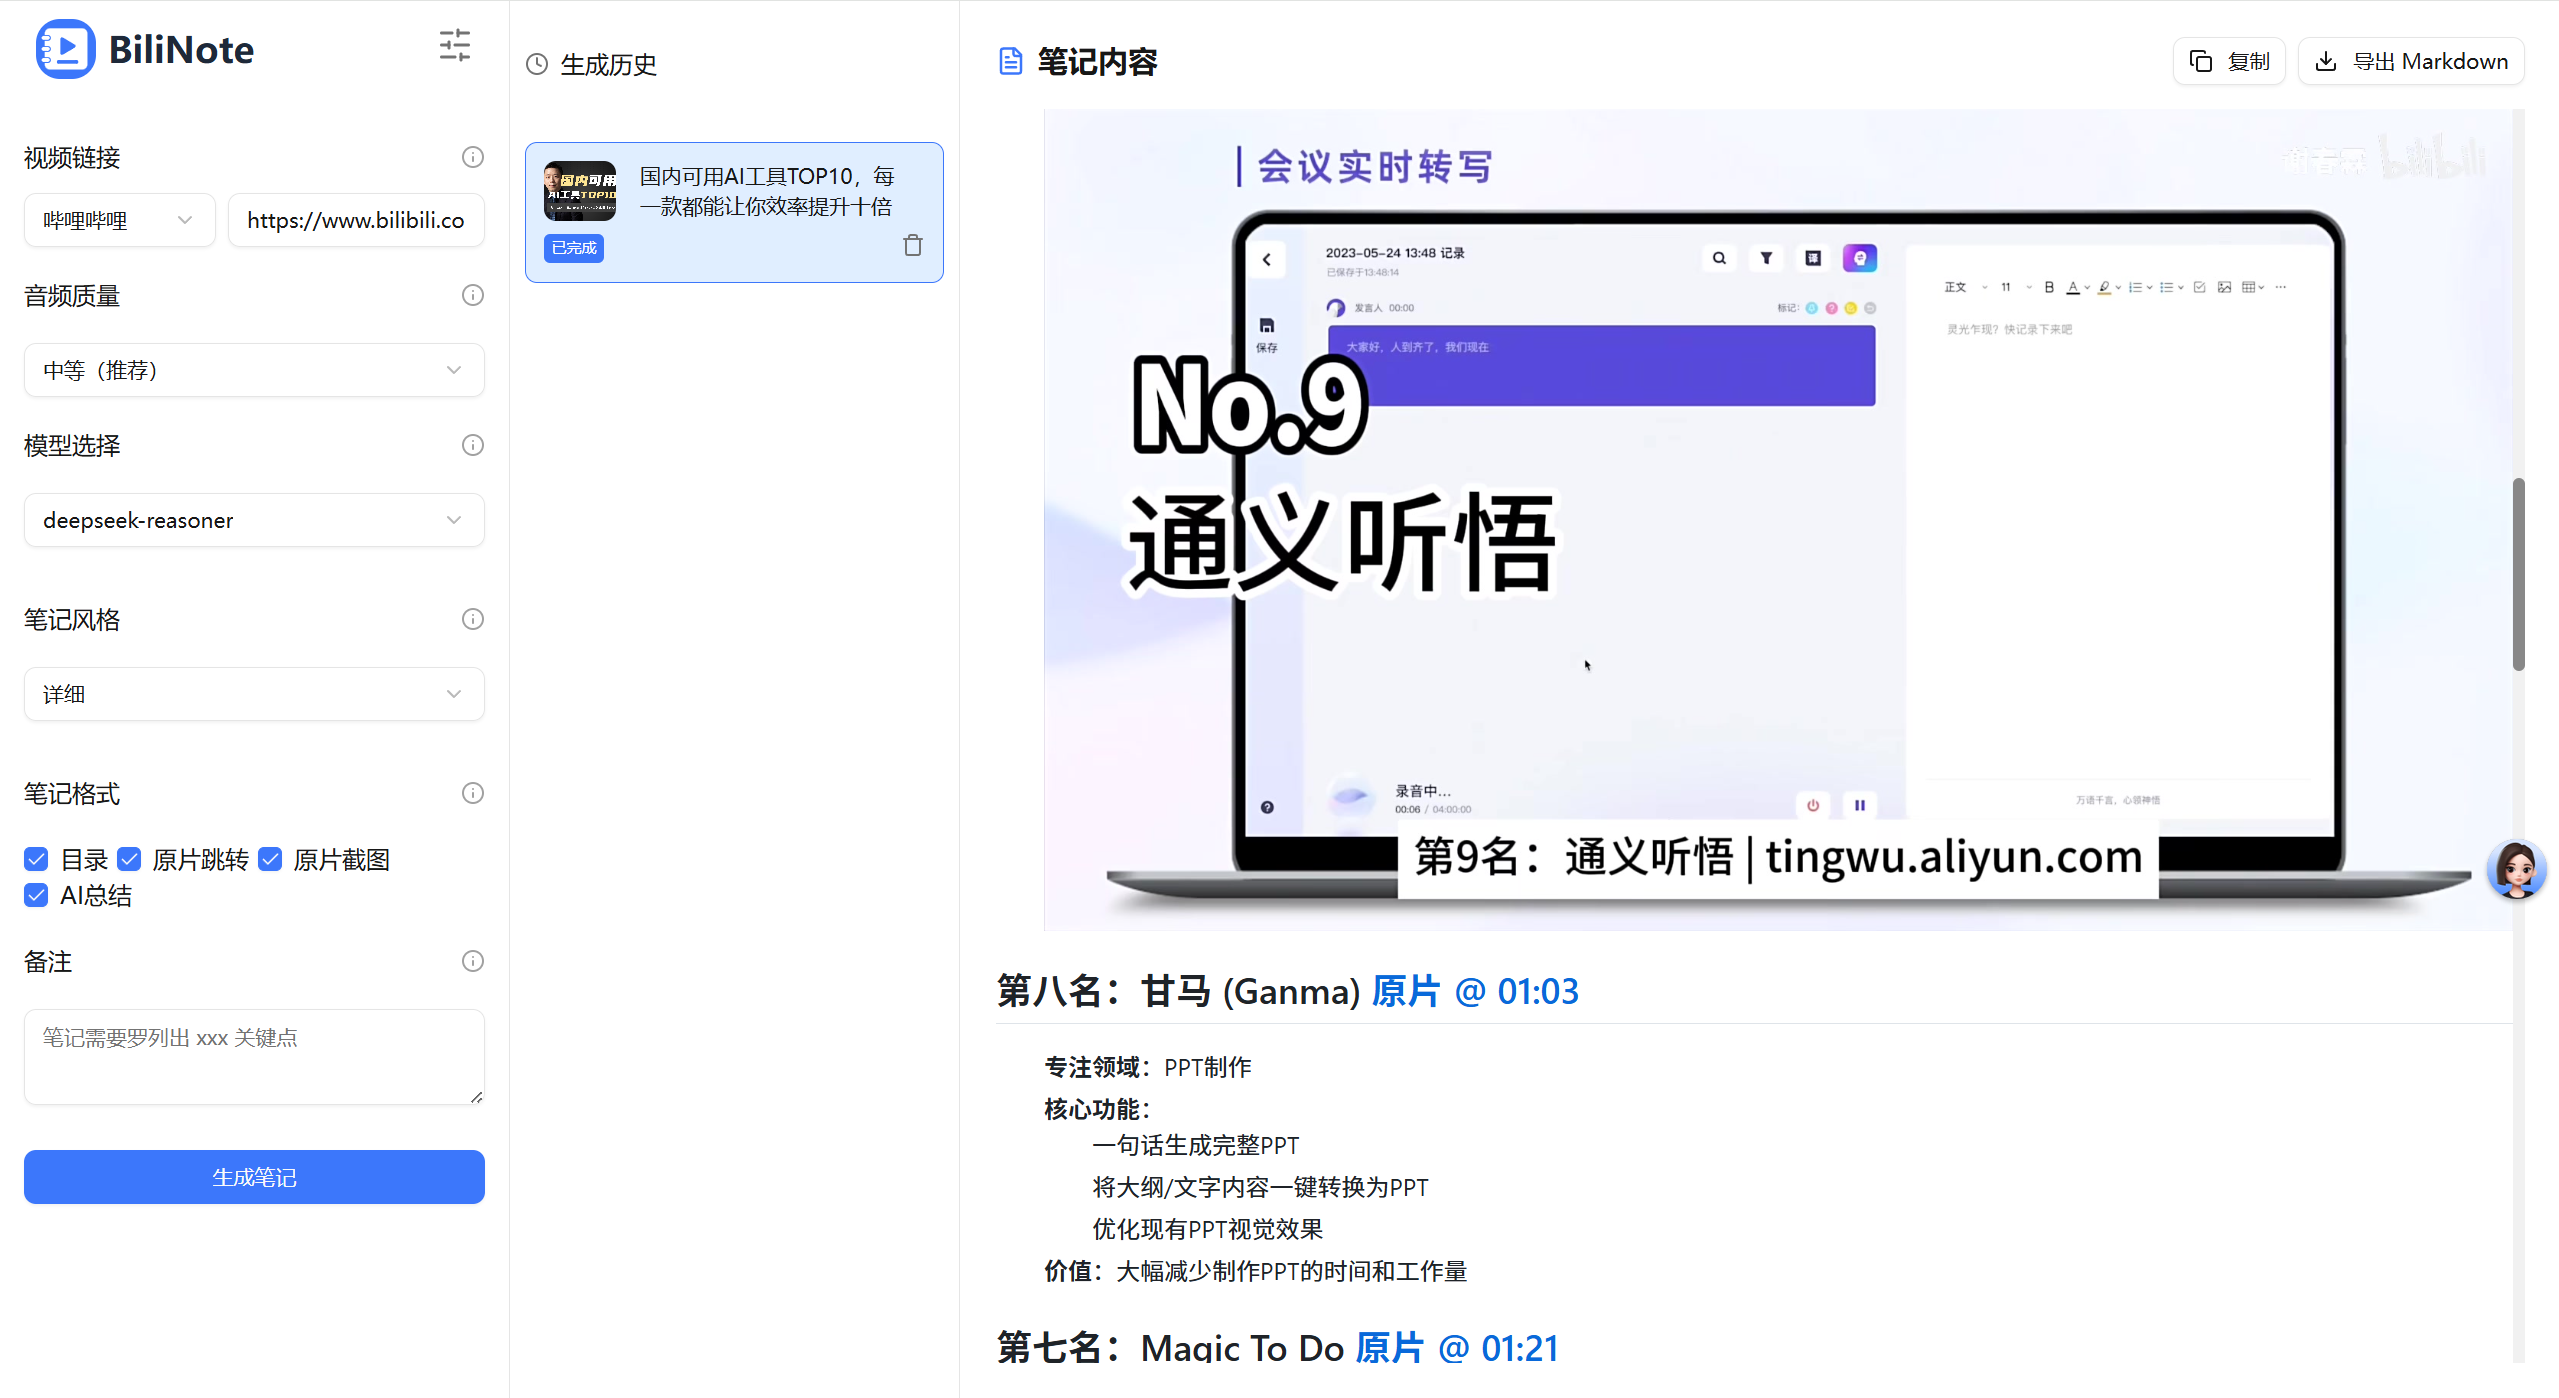
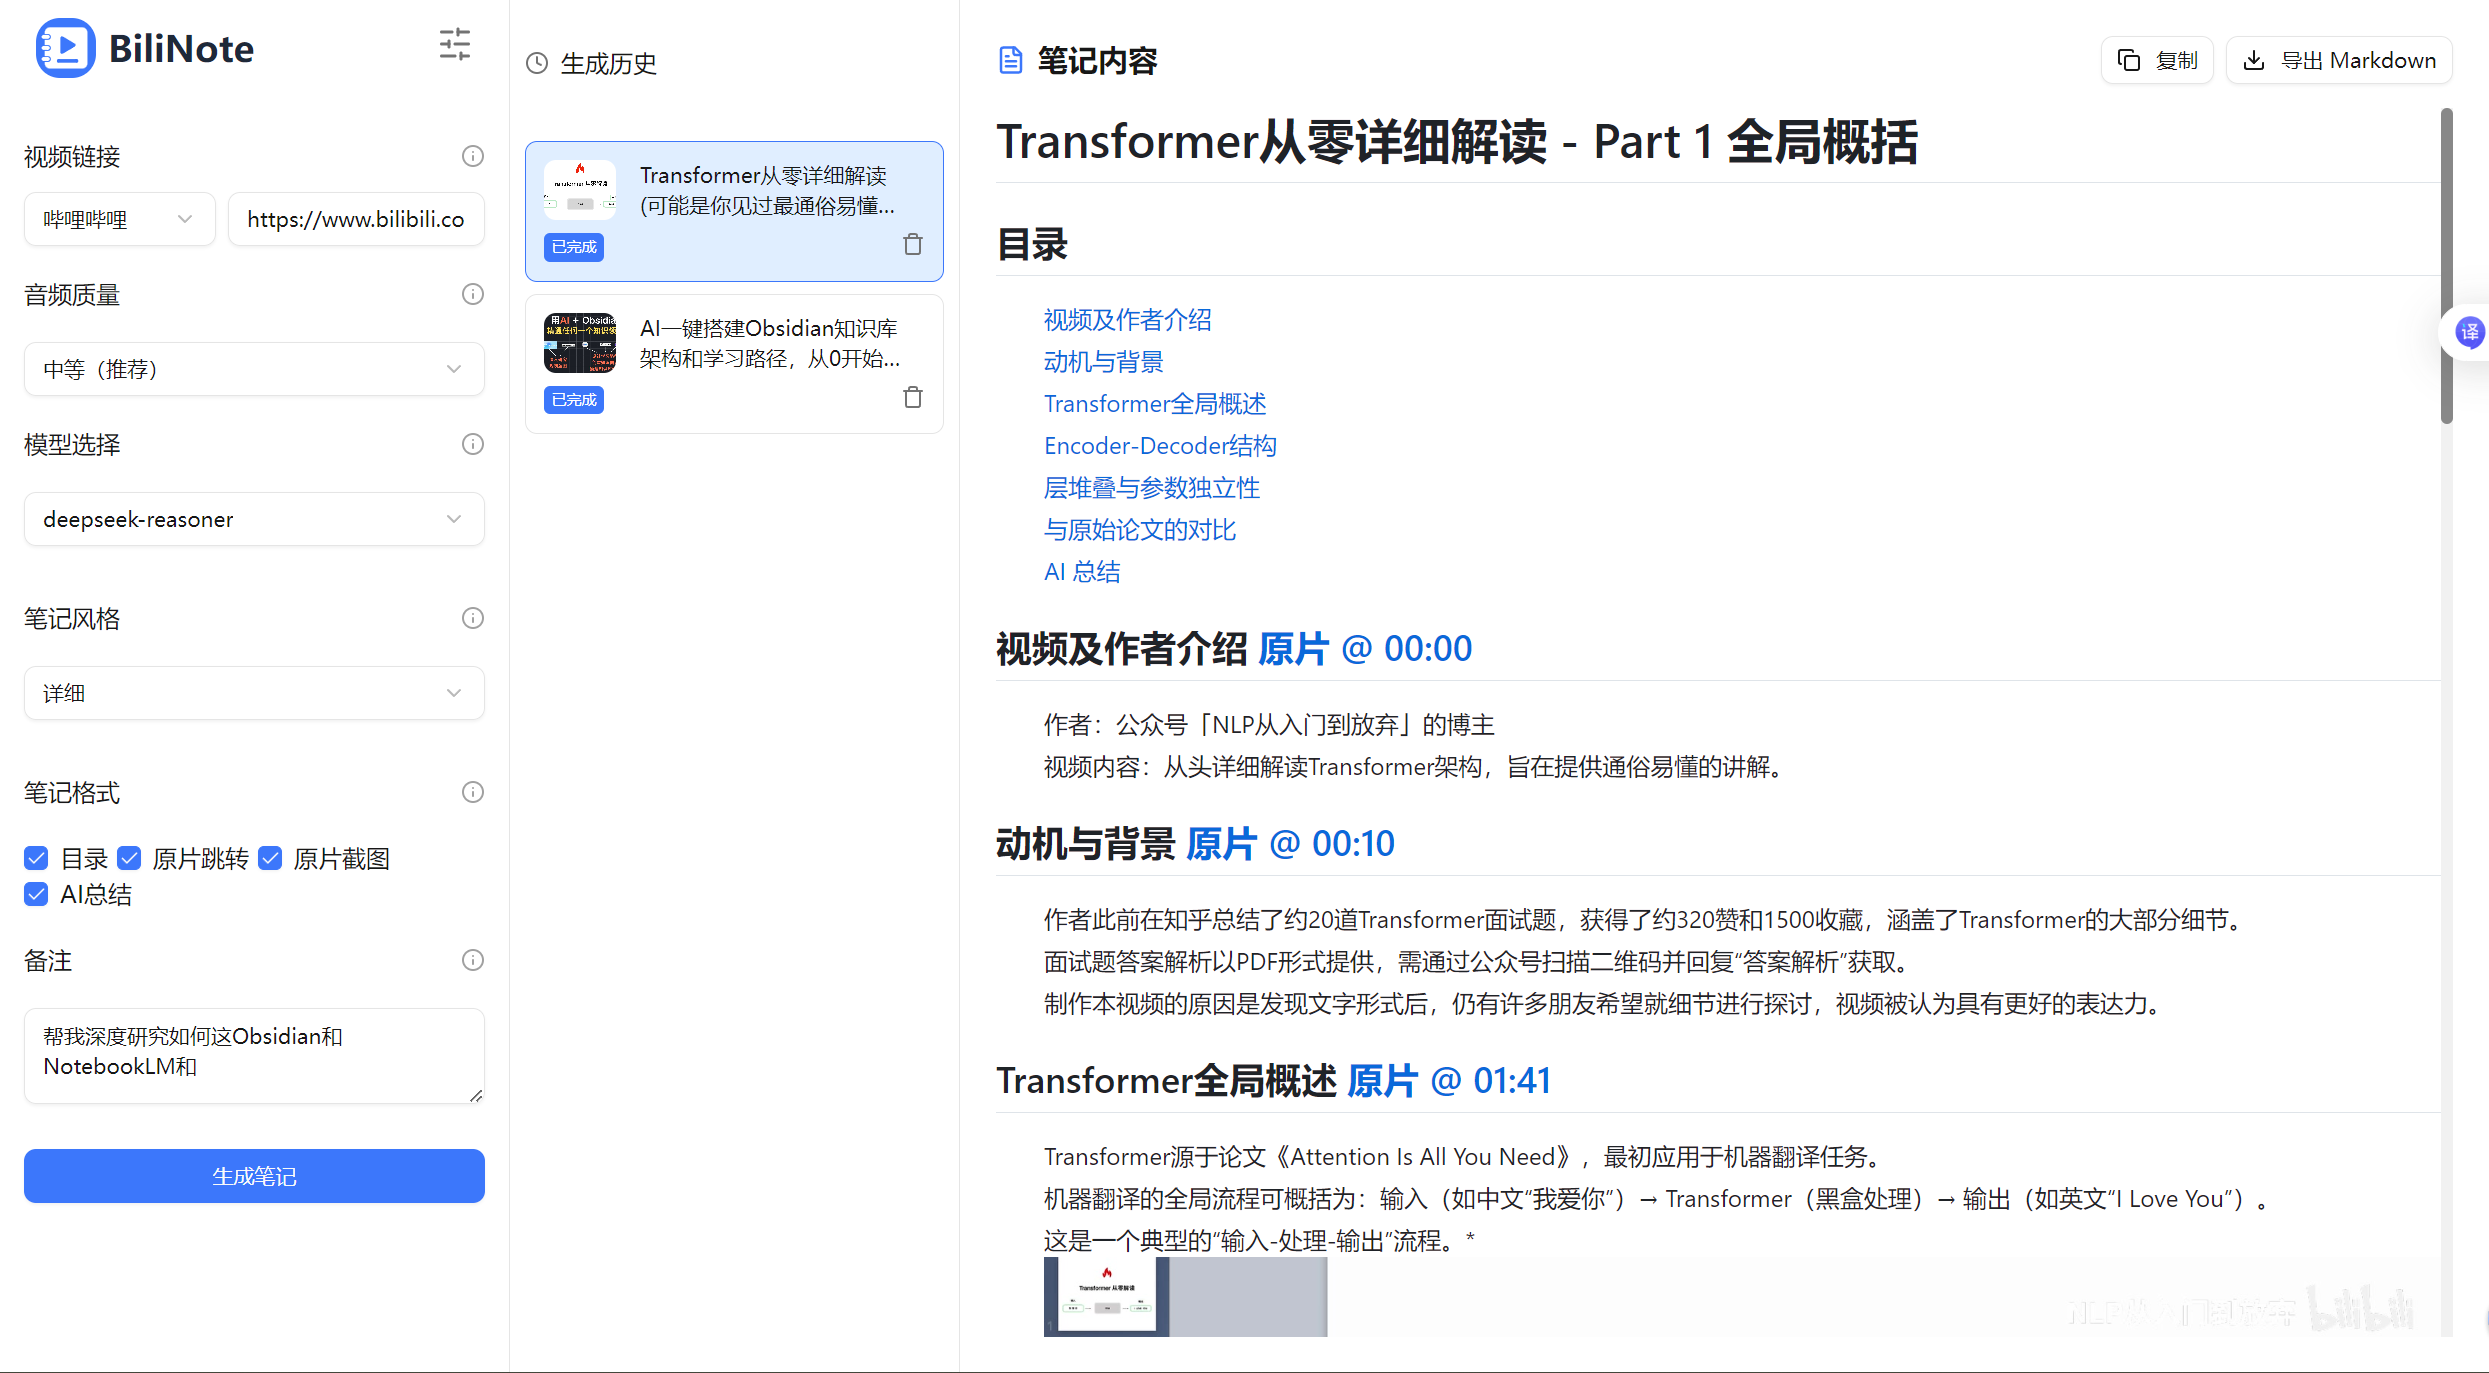
优化AI学习工具链介绍内容
- 完善Perplexity功能介绍和优势说明
- 补充BiliNote时间轴定位等核心功能
- 增强NotebookLM多源整合和知识库功能描述
- 优化GitMind知识可视化功能介绍
- 完善Obsidian知识图谱和学习留痕功能
- 更新相关演示图片

🤖 Generated with [Claude Code](https://claude.ai/code)

diff --git a/share-004/《AI协作能力：大学生未来发展的新维度》.md b/share-004/《AI协作能力：大学生未来发展的新维度》.md
@@ -45,52 +45,72 @@
 | 📚 知识初筛 | 图书馆  | Perplexity 或 BiliNote |
 | 🧠 知识精加工 | 手工  | NotebookLM  |
 | 🗺 做导图 | 手绘  | GitMind  |
-| 📄 写报告 | 手写  | Note  |
+| 📄 写报告 | 手写  | Obsidian |
 
 
 ### AI学习工具链演示
 
 #### Step 1: 知识初筛
-**Perplexity极速调研**
-TODO： 需补充简单功能介绍加优势，即推荐理由
-TODO：补充地址
-- **输入**: "人工智能在教育中的应用现状与发展趋势"
-- **输出**: 结构化答案 + 权威引用来源
-
-![alt text](./imgs/Perplexity搜索界面截图.png)
+**Perplexity极速调研** [访问地址](https://www.perplexity.ai/)
+- **功能介绍**: AI驱动的智能搜索引擎，实时联网获取最新信息，自动整合多源数据并提供引用
+- **核心优势**: 
+  - 🚀 实时性：连接互联网获取最新资讯，突破知识截止日期限制
+  - 📚 可信度：每个回答都附带来源引用，可追溯验证
+  - 🎯 精准性：AI理解搜索意图，直接给出结构化答案而非链接列表
+  - ⚡ 效率高：一次查询替代多次传统搜索，节省90%调研时间
+- **输入示例**: "2025年AI前沿技术学习路径和入门指南"
+- **输出效果**: 结构化的分析报告 + 学术论文/新闻/报告等权威引用来源
+![alt text](imgs/Perplexity搜索界面截图.png)
 
 **BiliNote视频知识提取**
-TODO： 需补充简单功能介绍加优势，即推荐理由
+- **功能介绍**: 智能视频内容提取工具，将B站长视频转化为结构化知识笔记，特别适合学习类视频
+- **核心优势**:
+  - ⏱ 时间轴定位：生成精准时间戳，快速跳转到视频重点内容
+  - 📝 内容结构化：自动识别知识要点，形成清晰的大纲笔记
+  - 🎯 高效学习：2小时视频10分钟读完笔记，保留核心知识点
+  - 🔍 便于复习：文字版笔记支持搜索和标注，方便知识回顾
 - **输入**: B站教育视频链接
-- **处理**: AI自动提取音频 → 语音转文字 → 内容结构化
-- **输出**: Markdown笔记 + 时间轴 + 要点总结
+- **处理**: AI自动提取音频 → 语音转文字 → 内容结构化 → 时间轴对齐
+- **输出**: Markdown笔记 + 时间轴索引 + 要点总结
 
-![alt text](./imgs/BiliNote界面和生成结果.png)
+![alt text](imgs/BiliNote界面和生成结果.png)
 
-### Step 2: NotebookLM多源整合
-TODO： 需补充简单功能介绍加优势，即推荐理由
-TODO：补充地址
-- **输入**: 搜索结果 + 视频笔记 + PDF文档
-- **特色功能**: 生成AI播客 (两个AI主持人讨论你的资料)
-- **输出**: 学习指南 + 音频播客 + 测验题
-![alt text](./imgs/NotebookLM界面和AI播客功能.png)
+### Step 2: NotebookLM多源整合 [访问地址](https://notebooklm.google.com/)
+- **功能介绍**: Google开发的AI知识库工具，将多个信息源整合分析，生成深度学习材料
+- **核心优势**:
+  - 📚 多源整合：同时分析PDF、网页、视频笔记等多种格式资料
+  - 🧠 深度理解：AI深入分析资料细节，发现知识点之间的关联
+  - 🎙 AI播客：独创两位AI主持人对话形式，生动讨论你的学习资料
+  - 📖 知识输出：自动生成学习文档、博客文章、学习指南等多种形式
+- **输入**: Perplexity搜索结果 + BiliNote视频笔记 + PDF文档 + 网页内容
+- **特色功能**: 生成AI播客（两个AI主持人深度讨论你的资料），个人知识库
+- **输出**: 学习指南 + AI音频播客 + 测验题 + 博客文章
+![alt text](imgs/NotebookLM学习笔记.png)
+![alt text](imgs/NotebookLM的AI播客功能.png)
 
-### Step 3: GitMind可视化
-TODO： 需补充简单功能介绍加优势，即推荐理由
-TODO：补充地址
-- **输入**: NotebookLM整合内容
-- **输出**: 自动生成思维导图，知识结构一目了然
+### Step 3: GitMind可视化 [访问地址](https://gitmind.com/)
+- **功能介绍**: AI驱动的思维导图工具，将前两步收集的知识自动转化为可视化图表
+- **核心优势**:
+  - 🗺 知识整合：将零散信息整合成系统化的思维导图和流程图
+  - 🎨 多样模板：支持思维导图、流程图、组织架构图等多种图表类型
+  - 🤖 AI生成：输入文字即可自动生成图表，无需手动绘制
+  - 📊 层次清晰：自动梳理知识层级关系，便于理解复杂概念
+- **输入**: Perplexity搜索结果 + BiliNote笔记 + NotebookLM整合内容
+- **输出**: 结构化思维导图 + 学习流程图 + 知识框架图
 ![alt text](./imgs/GitMind思维导图生成过程.png)
+![alt text](imgs/GitMind学习流程图.png)
 
-### Step 4: Note完整报告
-TODO： 需补充简单功能介绍加优势，即推荐理由
-TODO：补充地址
-- **成果**: 完整课程设计框架
-- **质量**: 逻辑清晰 + 引用准确 + 格式标准
-TODO：补充图片
-
-
-TODO： 目前这4部的截图非常随意，需要连贯，比如以"人工智能在教育中的应用现状与发展趋势"实际演示，怎么找论文、找B站视频，然后一步步完成。就是以一个问题贯穿始终。
+### Step 4: Obsidian完整笔记 [访问地址](https://obsidian.md/)
+- **功能介绍**: 本地知识管理工具，将前三步的所有内容整合成个人知识图谱，支持双向链接和AI对话
+- **核心优势**:
+  - 🕸 知识图谱：自动生成知识网络图，可视化知识点之间的关联
+  - ✍ 深度笔记：在已有内容基础上添加个人理解、学习感悟和实践经验
+  - 🤖 AI对话：集成AI助手，可针对每个知识节点进行深度学习和提问
+  - 📝 学习留痕：完整记录学习过程，形成个人知识积累和成长轨迹
+- **输入**: 前三步的所有内容（搜索结果、视频笔记、知识库、思维导图）
+- **成果**: 完整的个人知识体系 + 学习笔记 + 实践心得
+- **质量**: 知识体系化 + 个人化理解 + 可追溯学习路径
+![alt text](imgs/Obsidian知识图谱构建.png)
 
 
 ## 我的AI协作故事
